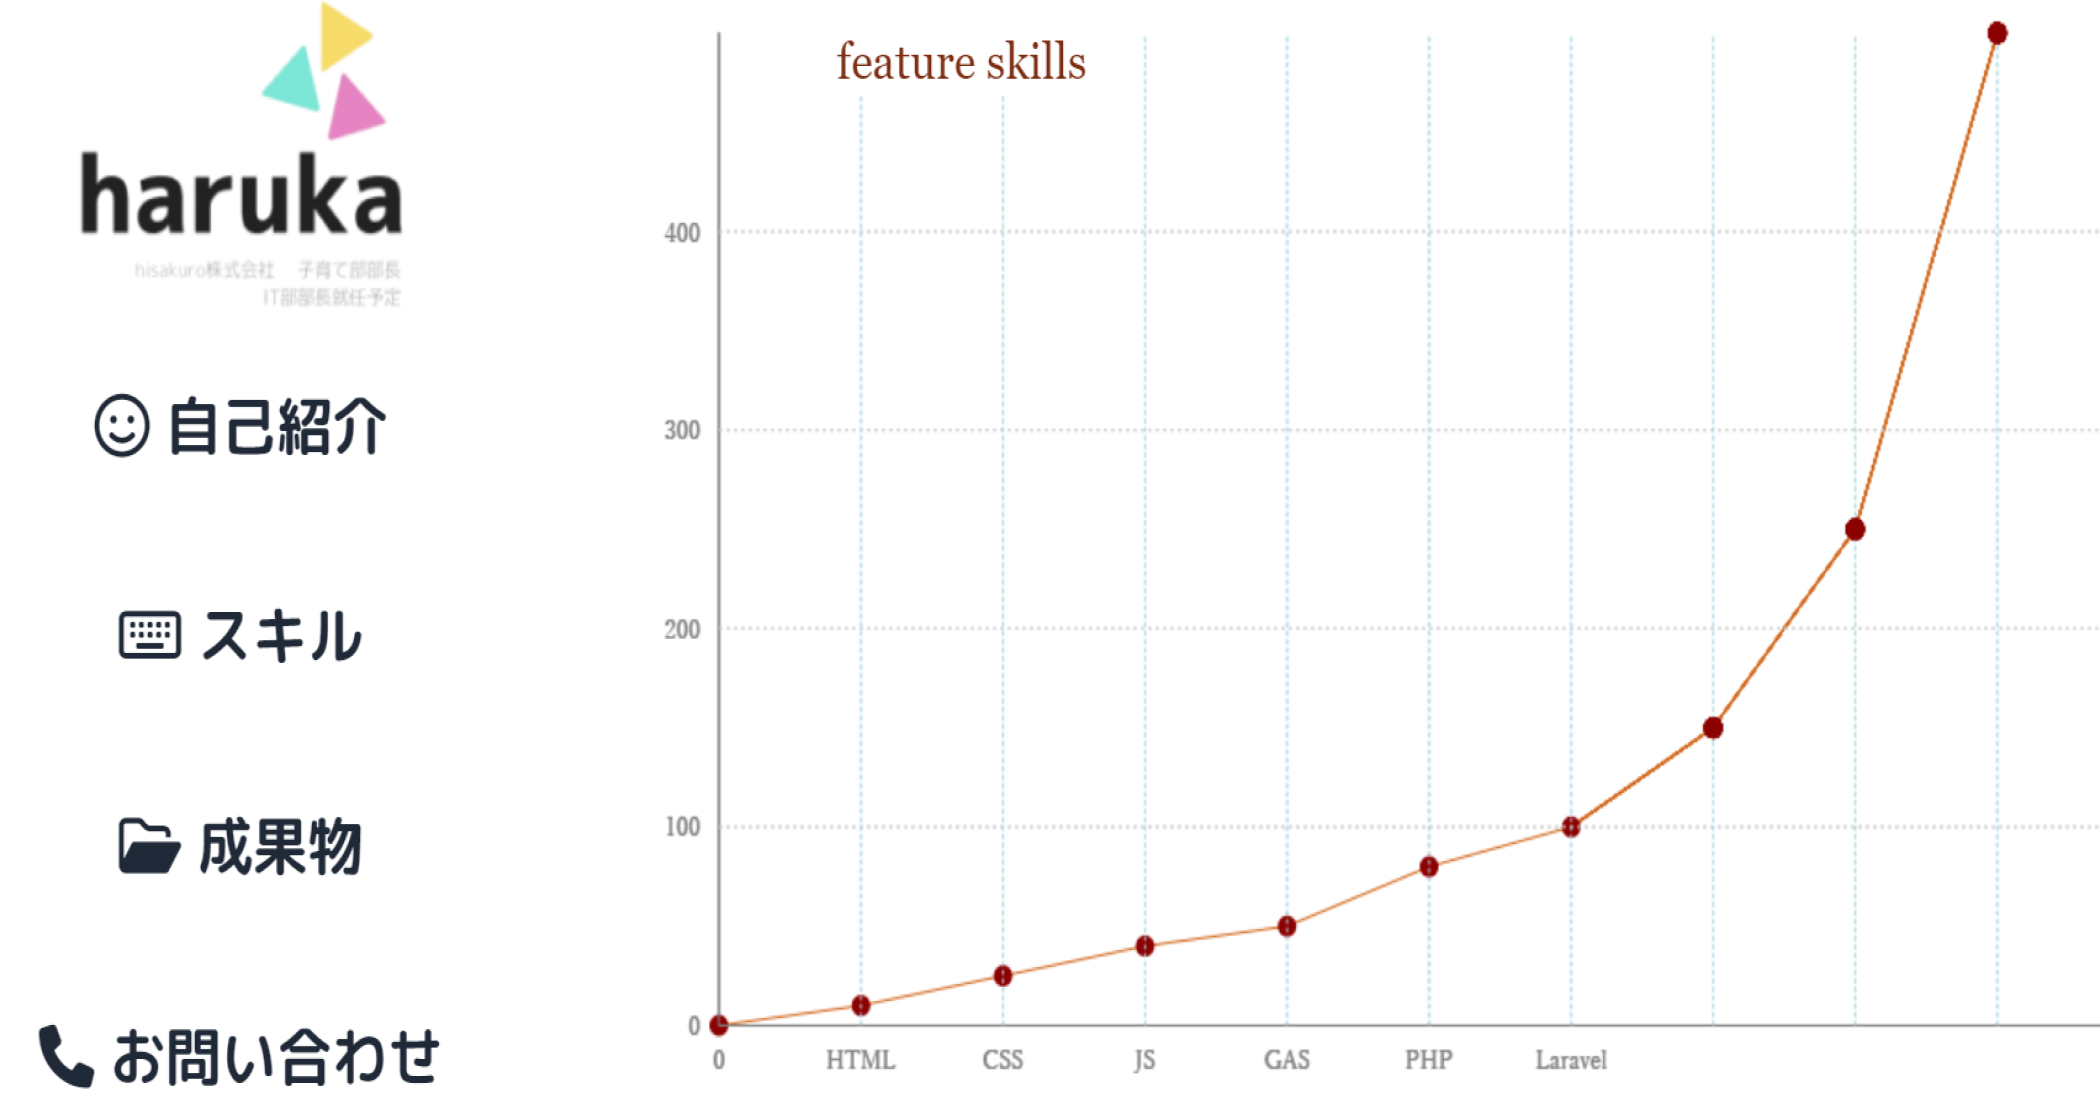
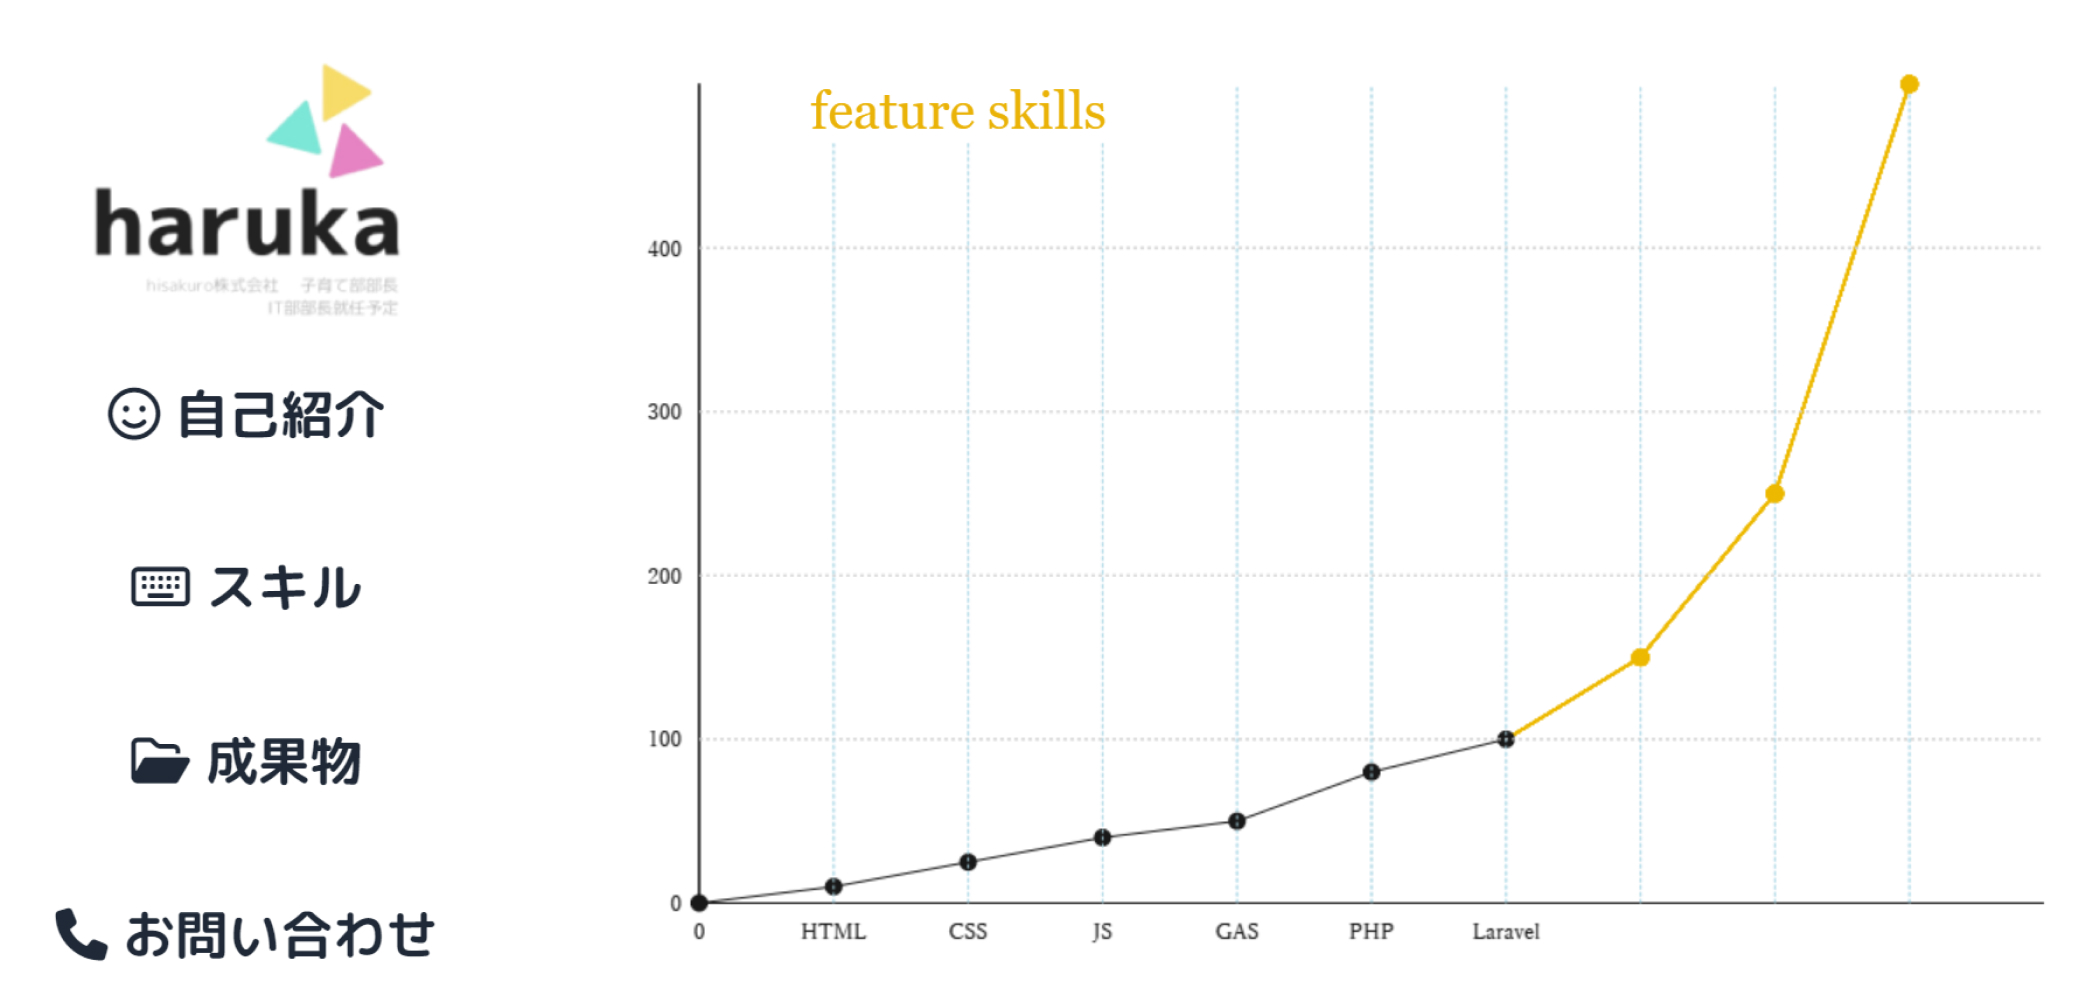
responsive対応中

diff --git a/js/graph.js b/js/graph.js
@@ -14,8 +14,8 @@ let config = {
     datasets: [
       {
         label: "dataset1",
-        backgroundColor: "#666666",
-        borderColor: "#666666",
+        backgroundColor: "#181818",
+        borderColor: "#181818",
         data: [0, 10, 25, 40, 50, 80, 100, 150, 250, 500],
       },
     ],
@@ -95,7 +95,7 @@ function drawGraph() {
   horizontalLine.x = baseX;
   horizontalLine.y = baseY;
   horizontalLine.graphics
-    .beginStroke("gray")
+    .beginStroke("#181818")
     .moveTo(0, 0)
     .lineTo(stage.canvas.width * (1 - padding * 2), 0)
     .endStroke();
@@ -106,7 +106,7 @@ function drawGraph() {
   verticalLine.x = baseX;
   verticalLine.y = baseY;
   verticalLine.graphics
-    .beginStroke("gray")
+    .beginStroke("#181818")
     .moveTo(0, 0)
     .lineTo(0, -stage.canvas.height * (1 - padding * 2))
     .endStroke();
@@ -114,7 +114,7 @@ function drawGraph() {
 
   // 横軸ラベル
   for (let i = 0; i < horizontalLength; i++) {
-    let labels = new createjs.Text(config.data.labels[i], "12px serif", "gray");
+    let labels = new createjs.Text(config.data.labels[i], "12px serif", "#181818");
     labels.x = baseX + horizontalStep * i;
     labels.y = baseY + 10;
     labels.textAlign = "center";
@@ -123,7 +123,7 @@ function drawGraph() {
 
   // 縦軸ラベル
   for (let i = 0; i < verticalLength; i++) {
-    let labels = new createjs.Text(i * 100, "12px serif", "gray");
+    let labels = new createjs.Text(i * 100, "12px serif", "#181818");
     labels.x = baseX - 10;
     labels.y = baseY - verticalStep * i;
     labels.textAlign = "right";
@@ -238,7 +238,7 @@ setTimeout(function () {
   horizontalLine.x = baseX;
   horizontalLine.y = baseY;
   horizontalLine.graphics
-    .beginStroke("gray")
+    .beginStroke("#181818")
     .moveTo(0, 0)
     .lineTo(stage.canvas.width * (1 - padding * 2), 0)
     .endStroke();
@@ -249,7 +249,7 @@ setTimeout(function () {
   verticalLine.x = baseX;
   verticalLine.y = baseY;
   verticalLine.graphics
-    .beginStroke("gray")
+    .beginStroke("#181818")
     .moveTo(0, 0)
     .lineTo(0, -stage.canvas.height * (1 - padding * 2))
     .endStroke();
@@ -257,7 +257,7 @@ setTimeout(function () {
 
   // 横軸ラベル
   for (let i = 0; i < horizontalLength; i++) {
-    let labels = new createjs.Text(config.data.labels[i], "12px serif", "gray");
+    let labels = new createjs.Text(config.data.labels[i], "12px serif", "#181818");
     labels.x = baseX + horizontalStep * i;
     labels.y = baseY + 10;
     labels.textAlign = "center";
@@ -266,7 +266,7 @@ setTimeout(function () {
 
   // 縦軸ラベル
   for (let i = 0; i < verticalLength; i++) {
-    let labels = new createjs.Text(i * 100, "12px serif", "gray");
+    let labels = new createjs.Text(i * 100, "12px serif", "#181818");
     labels.x = baseX - 10;
     labels.y = baseY - verticalStep * i;
     labels.textAlign = "right";
@@ -311,7 +311,7 @@ setTimeout(function () {
         if (6 < i) {
           // 点の描画
           let dot = new createjs.Shape();
-          dot.graphics.beginFill("DarkRed");
+          dot.graphics.beginFill("#EDB900");
           dot.graphics.drawCircle(0, 0, 5);
           dot.x = baseX + horizontalStep * i;
           dot.y =
@@ -329,7 +329,7 @@ setTimeout(function () {
           // 線の描画
           let stroke = new createjs.Shape();
           stroke.graphics
-            .beginStroke("DarkRed")
+            .beginStroke("#EDB900").setStrokeStyle(1.5)
             .moveTo(0, 0)
             .lineTo(dot.x - prevX, dot.y - prevY)
             .endStroke();

diff --git a/index.html b/index.html
@@ -25,8 +25,8 @@
     style="padding: 35px; font-family: 'M PLUS Rounded 1c', sans-serif"
   >
     <div class="lg:flex">
-      <nav class="lg:w-1/4 lg:h-screen lg:fixed lg:flex lg:flex-col lg:items-center">
-        <a href="" onclick="doReload()" style="flex: 1; flex-basis: 0"
+      <nav class="lg:w-1/4 lg:h-screen lg:fixed flex lg:flex-col lg:items-center sm:justify-between sm:content-end sm:items-end">
+        <a href="" onclick="doReload()" style="@media (min-width: 1024px) {flex: 1; flex-basis: 0}" class="sm:w-1/5"
           ><img
             id="logo"
             src="images/logo.png"
@@ -34,21 +34,21 @@
             class="max-w-full h-auto"
         /></a>
         <ul
-          class="text-3xl font-semibold text-center flex flex-col justify-evenly mb-10"
-          style="flex: 2; flex-basis: 0"
+          class="lg:text-3xl lg:text-center sm:flex lg:flex-col lg:justify-evenly lg:mb-10 sm:text-xl sm:font-semibold sm:w-3/5"
+          style="@media (min-width: 1024px) {flex: 2; flex-basis: 0}"
         >
-          <li class="mb-12">
-            <a href="self_introduction.html" class="hover:text-yellow-500"
+          <li class="lg:mb-12">
+            <a href="self_introduction.html" class="hover:text-yellow-500 sm:mr-2"
               ><i class="fa-regular fa-face-smile"></i> 自己紹介</a
             >
           </li>
-          <li class="mb-12">
-            <a href="skills.html" class="hover:text-yellow-500"
+          <li class="lg:mb-12">
+            <a href="skills.html" class="hover:text-yellow-500 sm:mr-2"
               ><i class="fa-regular fa-keyboard"></i> スキル</a
             >
           </li>
-          <li class="mb-12">
-            <a href="projects.html" class="hover:text-yellow-500"
+          <li class="lg:mb-12">
+            <a href="projects.html" class="hover:text-yellow-500 sm:mr-2"
               ><i class="fa-regular fa-folder-open"></i> 成果物</a
             >
           </li>
@@ -62,7 +62,7 @@
       <main class="w-3/4 h-screen" style="margin-left: 25vw">
         <div class="relative">
             <p
-              class="font-serif text-2xl bg-white absolute top-14 left-40 z-10 visible_text"
+              class="font-serif text-3xl bg-white absolute top-14 left-40 z-10 visible_text"
               style="
                 opacity: 1;
                 -webkit-transition: opacity 2s ease;
@@ -70,13 +70,13 @@
               "
               >now skills</p
             ><p
-              class="font-serif text-2xl text-orange-900 bg-white absolute top-14 left-40 z-10 hidden_text"
+              class="font-serif text-3xl text-yellow-500 bg-white absolute top-14 left-40 z-10 hidden_text"
               style="
                 opacity: 0;
                 -webkit-transition: opacity 4s ease;
                 transition: opacity 4s ease;
               "
-              >feature skills</p
+              >future skills</p
             >
           <canvas id="myCanvas"></canvas>
         </div>

diff --git a/projects.html b/projects.html
@@ -120,7 +120,7 @@
               <span class="text-sm">
                 ※お友達登録後ITパスポート試験に関連する単語を送信すると、単語説明の返答があります。 </span
               ><br />
-              <a href="https://lin.ee/5TCr3tF"
+              <a href="https://lin.ee/5TCr3tF" target="_blank"
                 ><img
                   src="https://scdn.line-apps.com/n/line_add_friends/btn/ja.png"
                   alt="友だち追加"
@@ -367,10 +367,10 @@
         <p>
           URL:
           <a
-            href="https://harukahisakuro.com"
+            href="https://haruka-hisakuro.com"
             target="_blank"
             class="mt-3 underline hover:text-red-400"
-            >https://harukahisakuro.com</a
+            >https://haruka-hisakuro.com</a
           >
         </p>
         <p>

diff --git a/confilm.php b/confilm.php
@@ -46,29 +46,22 @@ if ($_SERVER["REQUEST_METHOD"] == "POST") {
             </ul>
         </nav>
         <main class="w-3/4 h-screen" style="margin-left: 25vw">
-            <h1 class="text-3xl font-semibold mb-10">お問い合わせフォーム - 確認画面</h1>
+            <h1 class="text-3xl font-semibold mb-10">お問い合わせ - 確認画面</h1>
             <h2 class="text-xl font-semibold mb-5" style="border-bottom: 1px solid">
                 以下の内容で送信します。よろしいですか？</h2>
-            <table>
-                <tr>
-                    <td>名前：</td>
-                    <td><?php echo htmlspecialchars($name, ENT_QUOTES, 'UTF-8'); ?></td>
-                </tr>
-                <tr>
-                    <td>メールアドレス：</td>
-                    <td><?php echo htmlspecialchars($email, ENT_QUOTES, 'UTF-8'); ?></td>
-                </tr>
-                <tr>
-                    <td>お問い合わせ内容：</td>
-                    <td><?php echo htmlspecialchars($message, ENT_QUOTES, 'UTF-8'); ?></td>
-                </tr>
-            </table>
+
+            <p>名前：<?php echo htmlspecialchars($name, ENT_QUOTES, 'UTF-8'); ?></p>
+            <p>メールアドレス：<?php echo htmlspecialchars($email, ENT_QUOTES, 'UTF-8'); ?></p>
+            <p class="mb-5">お問い合わせ内容：<?php echo htmlspecialchars($message, ENT_QUOTES, 'UTF-8'); ?></p>
+
             <form method="post" action="send.php">
                 <input type="hidden" name="name" value="<?php echo $name; ?>">
                 <input type="hidden" name="email" value="<?php echo $email; ?>">
                 <input type="hidden" name="message" value="<?php echo $message; ?>">
-                <input type="submit" value="送信">
-                <button type="button" onclick="history.back()" class="mt-10 mb-5 rounded-full bg-gray-300 hover:bg-gray-500 px-4 py-2">戻る</button>
+                <div class="flex justify-around">
+                    <input type="submit" value="送信" class="mt-10 mb-5 rounded-full bg-gray-300 hover:bg-gray-500 px-4 py-2">
+                    <button type="button" onclick="history.back()" class="mt-10 mb-5 rounded-full bg-gray-300 hover:bg-gray-500 px-4 py-2">戻る</button>
+                </div>
             </form>
         </main>
     </div>

diff --git a/send.php b/send.php
@@ -3,9 +3,9 @@ if ($_SERVER["REQUEST_METHOD"] == "POST") {
     $name = $_POST["name"];
     $email = $_POST["email"];
     $message = $_POST["message"];
-    $to = "your_email@example.com";
+    $to = "hisakuro@limelizard98.sakura.ne.jp";
     $subject = "お問い合わせがありました";
-    $headers = "From:your_email@example.com";
+    $headers = "From:hisakuro@limelizard98.sakura.ne.jp";
     $body = "名前: $name\nメールアドレス: $email\n\n$message";
     if (mail($to, $subject, $body, $headers)) {
         $message = "お問い合わせが送信されました。ありがとうございます！";
@@ -55,9 +55,18 @@ if ($_SERVER["REQUEST_METHOD"] == "POST") {
             </ul>
         </nav>
         <main class="w-3/4 h-screen" style="margin-left: 25vw">
-            <h1 class="text-3xl font-semibold mb-10">お問い合わせフォーム - 送信完了画面</h1>
+            <h1 class="text-3xl font-semibold mb-10">お問い合わせ - 送信完了画面</h1>
             <h2 class="text-xl font-semibold mb-5" style="border-bottom: 1px solid"><?php echo $message; ?></h2>
-            <p><a href="contact.php">お問い合わせフォームに戻る</a></p>
+            <p>
+                <?php
+                if ($message === "お問い合わせが送信されました。ありがとうございます！") {
+                    echo "1週間以内に送信いただいたメールアドレスまで返信させて頂きます。";
+                }
+                ?>
+            </p>
+            <div class="text-center">
+                <p class="mt-10"><a href="contact.php" class="rounded-full bg-gray-300 hover:bg-gray-500 px-4 py-2">お問い合わせフォームに戻る</a></p>
+            </div>
         </main>
     </div>
 </body>
